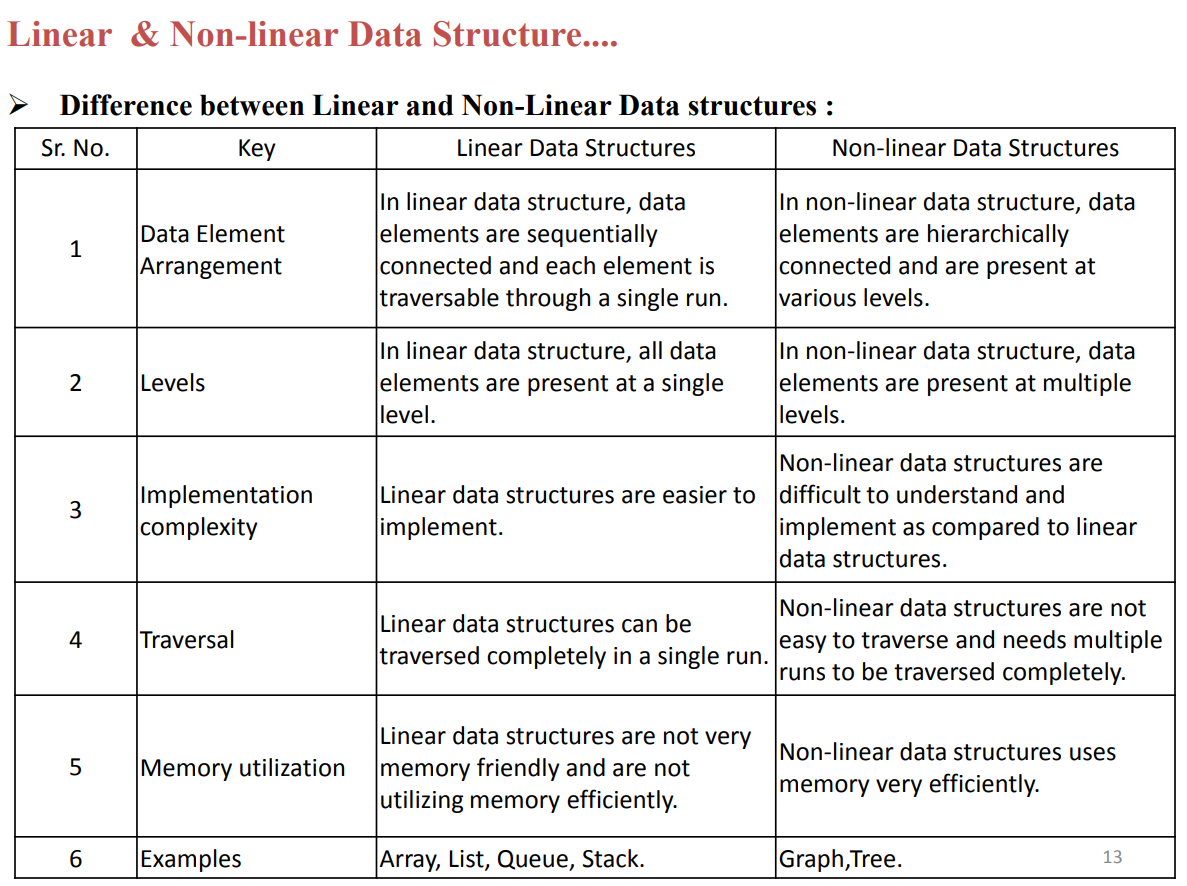
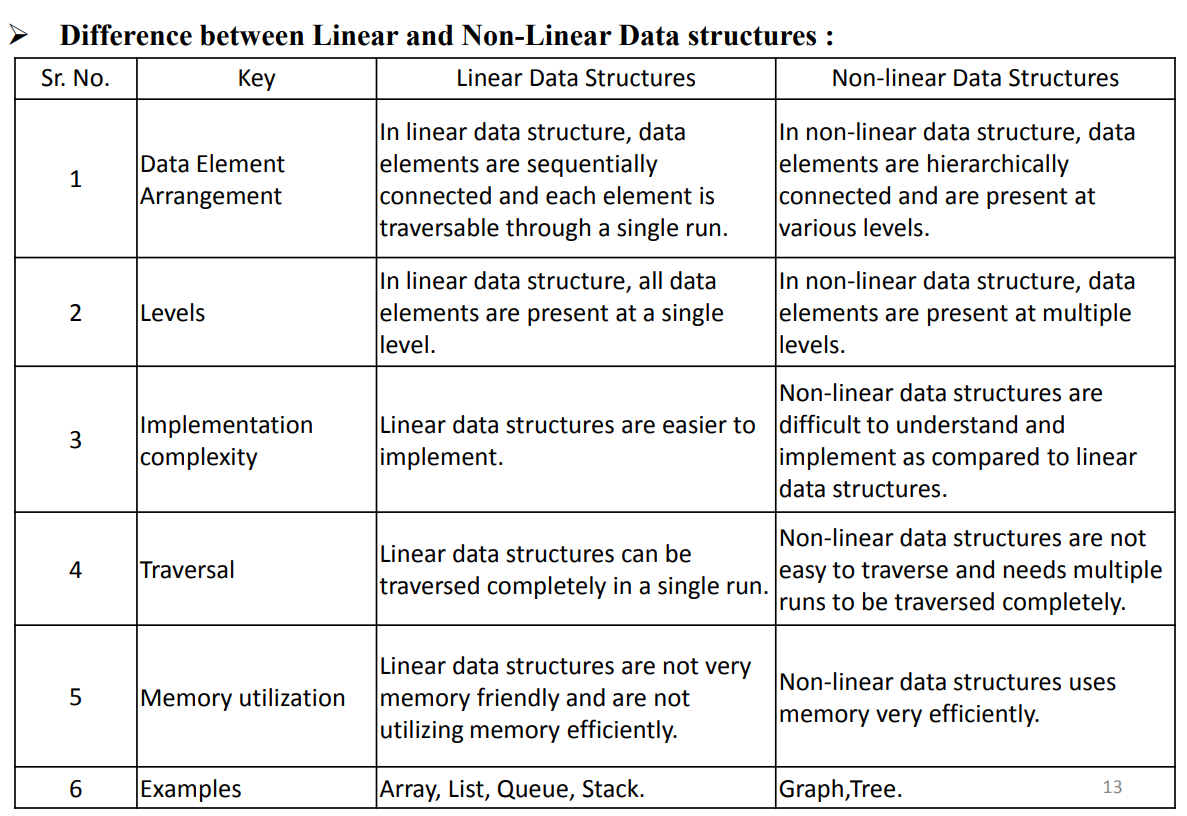
update linkedlist

diff --git a/docs/ds/modules/module-1/unit-1.md b/docs/ds/modules/module-1/unit-1.md
@@ -2,21 +2,23 @@
 outline: deep
 ---
 
-![Linear & Non-Linear Data Structure](./images/m1p1.png)
+![Linear & Non-Linear Data Structure](../../../images/m1p1.png)
+![Difference between Linear & Non-Linear Data Structure](../../../images/m1p2.png)
 
-<!-- # 
-
+## Linked List 👇
 <div class="pdf-container">
   <iframe 
-    src="/DATA-STRUCTURE/TM.pdf#view=fitH" 
+    src="/DATA-STRUCTURE/ALL.pdf#view=fitH" 
     width="100%" 
     height="600px" 
     frameborder="0">
   </iframe>
 </div>
 
+## 
+
 <p>
-  If the PDF does not load, <a href="/DATA-STRUCTURE/TM.pdf" target="_blank">click here to download it</a>.
+  If the PDF does not load, <a href="/DATA-STRUCTURE/ALL.pdf" target="_blank">click here to download it</a>.
 </p>
 
 <style>
@@ -26,4 +28,4 @@ outline: deep
   border-radius: 4px;
   overflow: hidden;
 }
-</style> -->
+</style> 
